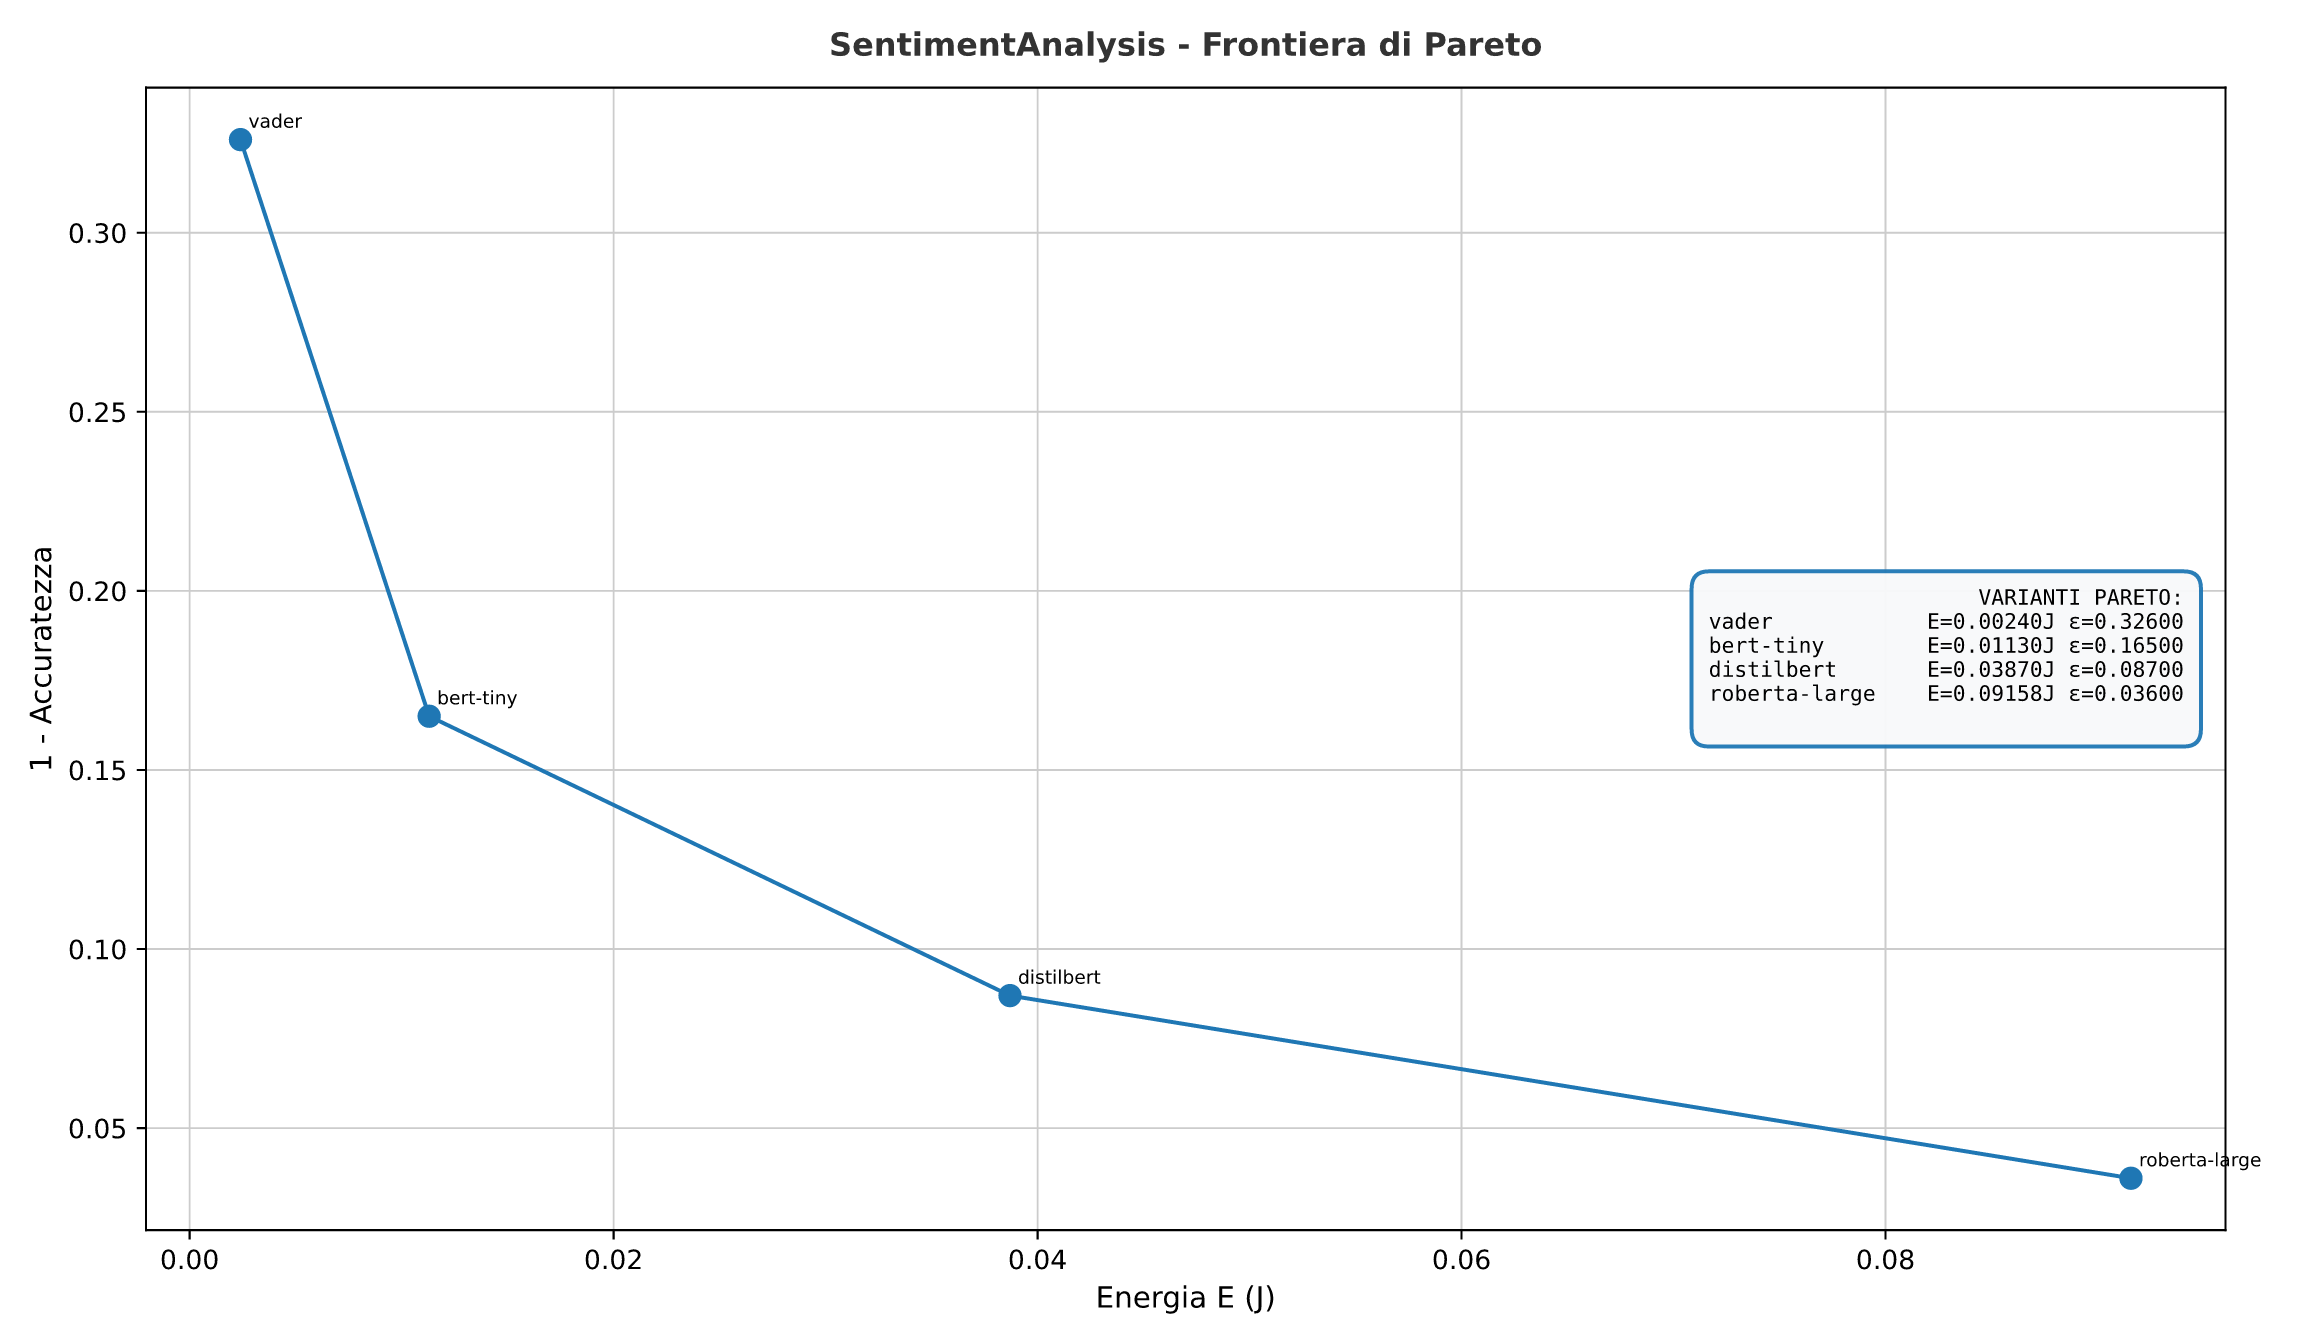
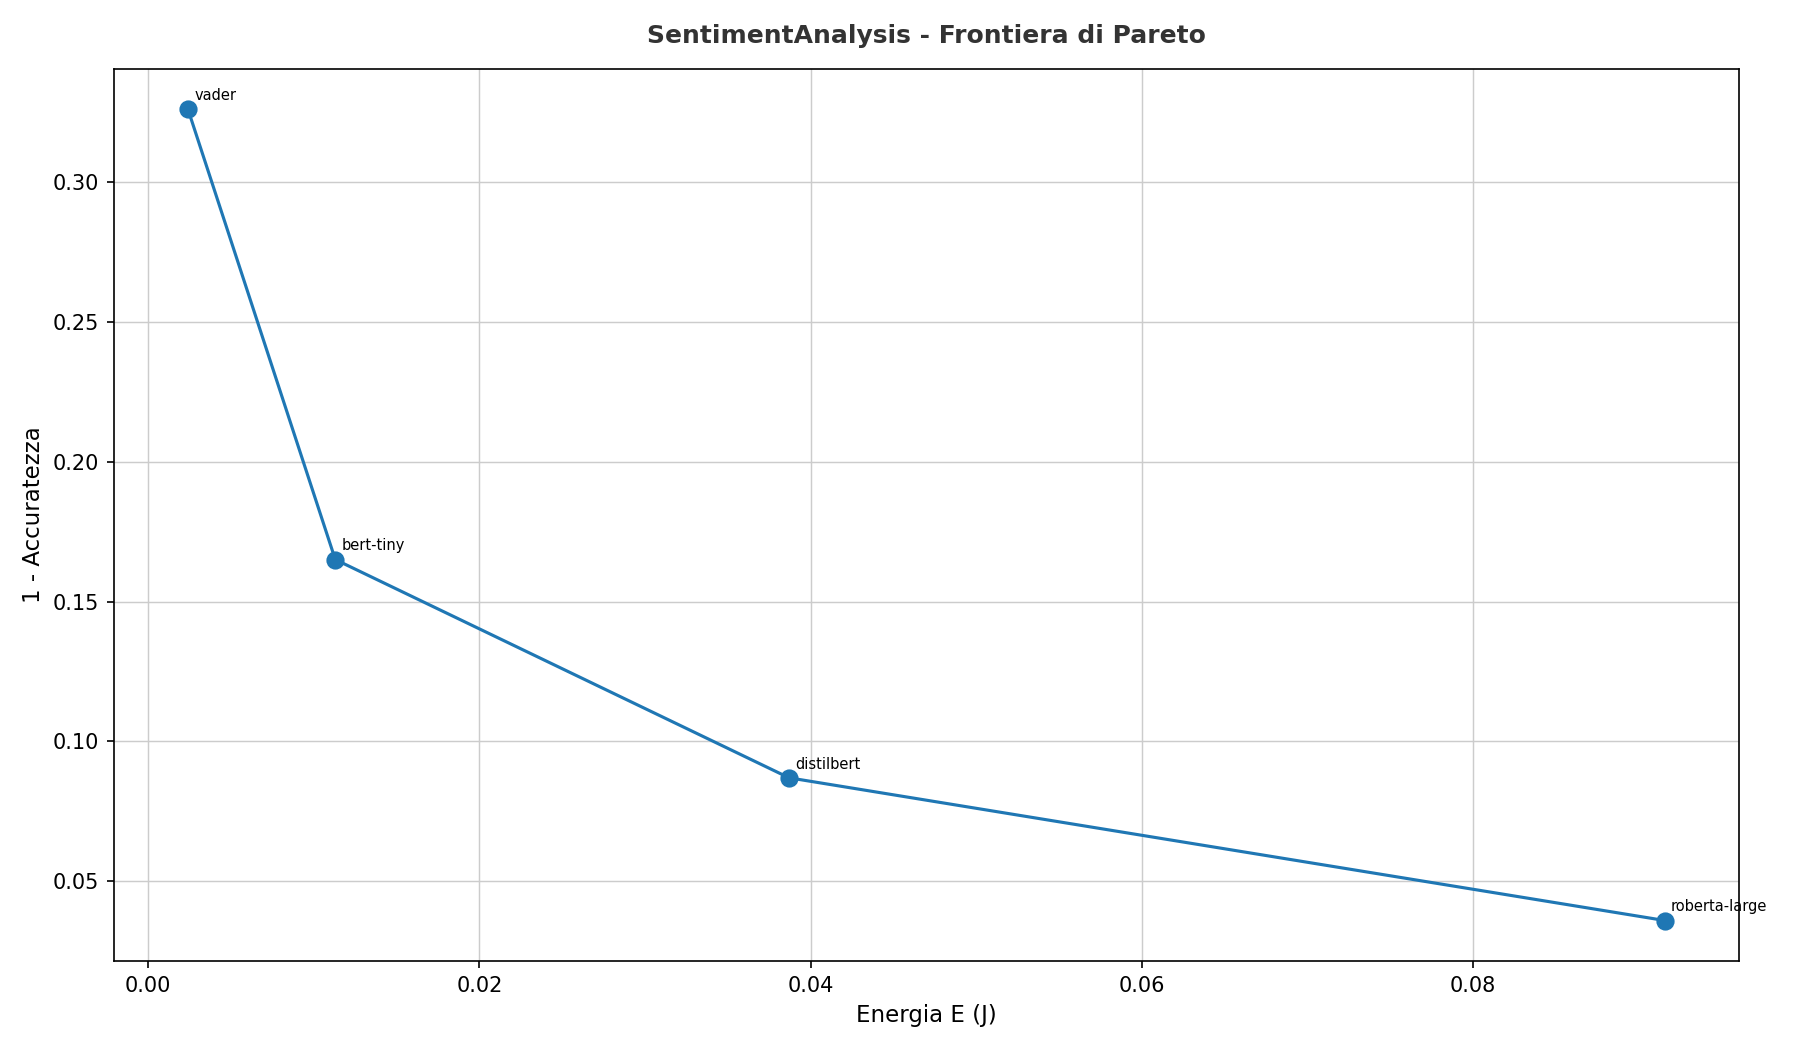
Update validation figures for PiLeibniz and Sentiment Analysis setups

diff --git a/src/capitoli/05-RisultatiSperimentali.tex b/src/capitoli/05-RisultatiSperimentali.tex
@@ -157,13 +157,13 @@ regione della frontiera effettivamente attraversata durante l'esecuzione.
     \centering
     \begin{subfigure}{0.98\textwidth}
         \centering
-        \includegraphics[width=\textwidth]{figures/validation/PiLeibniz-LambdaToVariant.png}
+        \includegraphics[width=\textwidth]{figures/validation/LambdaToVarianPI.png}
         \caption{PiLeibniz}
     \end{subfigure}
     \vspace{0.4cm}
     \begin{subfigure}{0.98\textwidth}
         \centering
-        \includegraphics[width=\textwidth]{figures/validation/SentimentAnalysis-LambdaToVariant.png}
+        \includegraphics[width=\textwidth]{figures/validation/LambdaToVariantSA.png}
         \caption{SentimentAnalysis}
     \end{subfigure}
     \caption{Regioni di selezione delle varianti al variare di $\lambda$.
